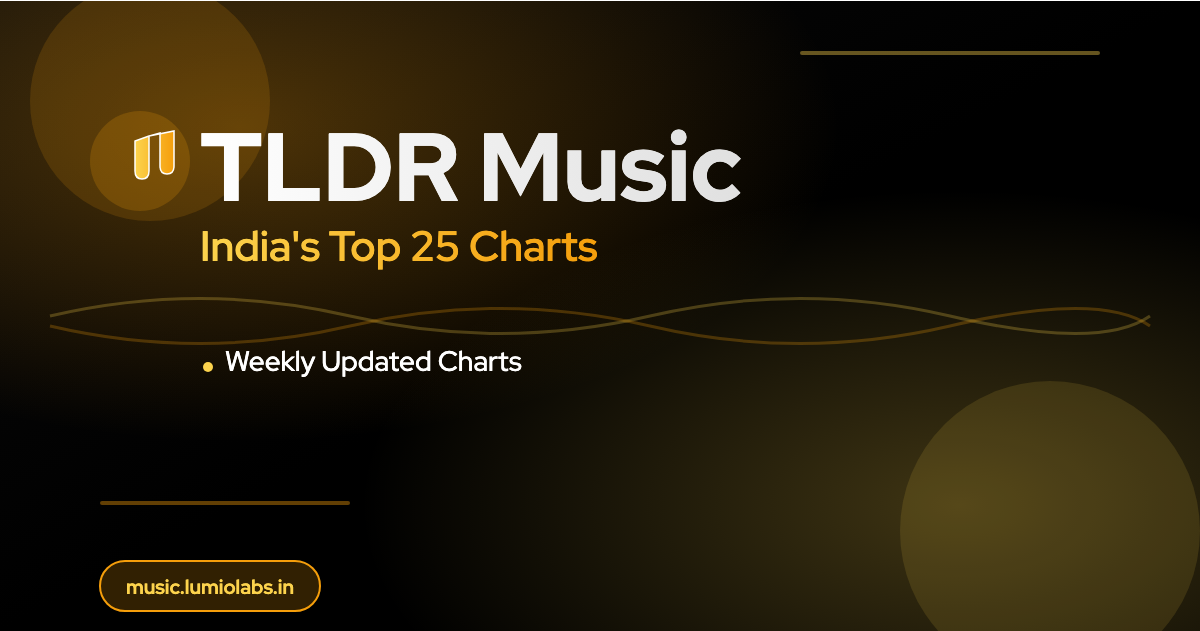
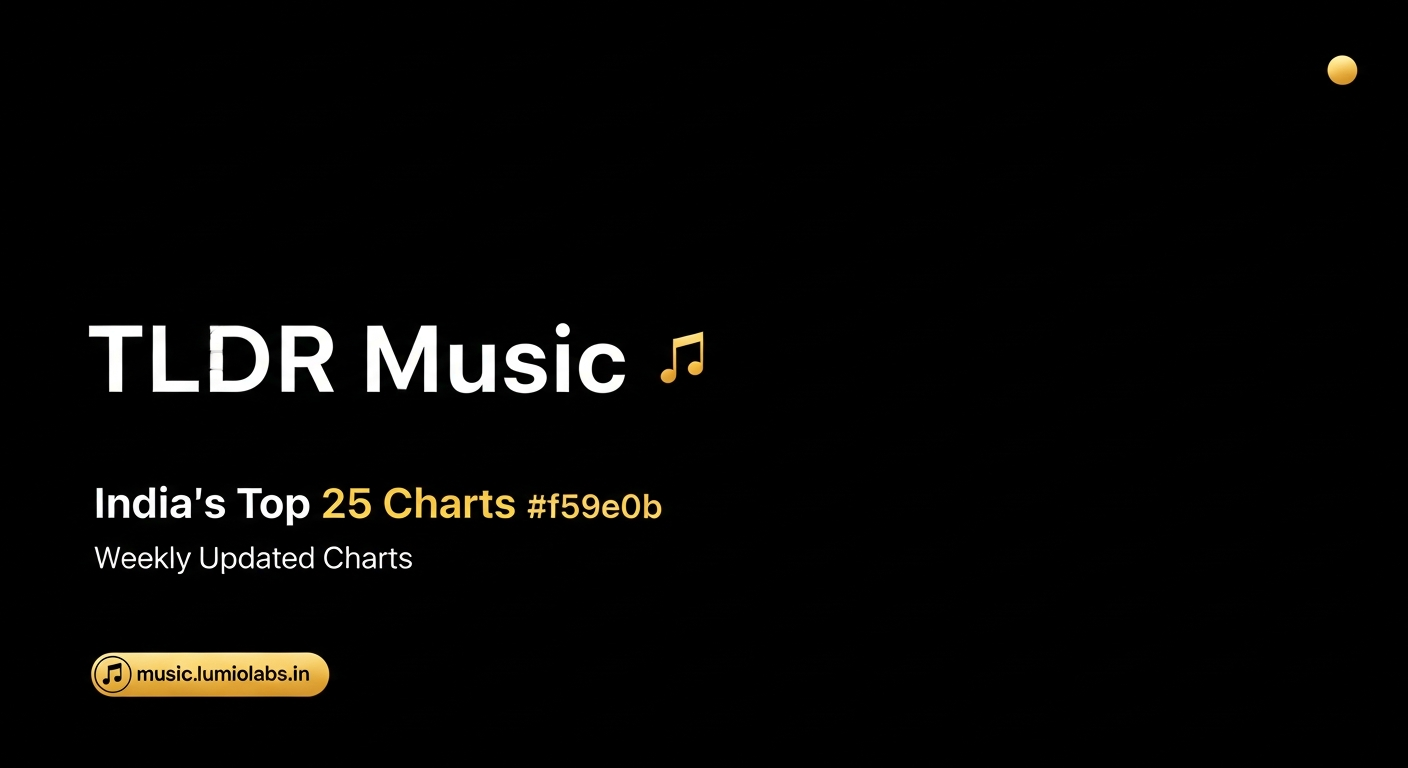
feat: Update social media assets with Gemini-generated images
Replaced OG image and touch icon with Gemini Imagen 4.0 generated versions:
- Minimalist black and golden design
- Clean Apple-style aesthetic
- OG image: Left-aligned text layout with golden accents
- Touch icon: Simple golden music note with TLDR text
- Updated all favicon sizes

Added Gemini image generator script for future iterations.
User will manually refine these images later.

🤖 Generated with [Claude Code](https://claude.com/claude-code)

diff --git a/generate_images_gemini.py b/generate_images_gemini.py
@@ -1,0 +1,237 @@
+#!/usr/bin/env python3
+"""
+TLDR Music - Gemini Image Generator
+Generates social media assets using Google's Gemini API
+"""
+
+import os
+import sys
+from google import genai
+from google.genai import types
+from PIL import Image
+import base64
+from io import BytesIO
+
+# Check for API key
+API_KEY = os.getenv('GEMINI_API_KEY')
+if not API_KEY:
+    print("❌ GEMINI_API_KEY environment variable not set")
+    print("\nTo set it:")
+    print("  export GEMINI_API_KEY='your-api-key-here'")
+    print("\nGet your API key from: https://makersuite.google.com/app/apikey")
+    sys.exit(1)
+
+# Configure Gemini client
+client = genai.Client(api_key=API_KEY)
+
+# Design specifications
+COLORS = {
+    'black': '#000000',
+    'golden': '#f59e0b',
+    'golden_light': '#fcd34d',
+    'white': '#ffffff',
+    'soft_white': '#E5E5E5'
+}
+
+OG_IMAGE_PROMPT = """Create an ultra-minimalist social media image with Apple aesthetic.
+
+Pure black background. Modern sans-serif font.
+
+Large white text "TLDR Music" on the left side.
+Below it, golden yellow text "India's Top 25 Charts".
+Small text "Weekly Updated Charts" underneath in light gray.
+
+Small golden circle accent in the top right corner.
+Tiny golden music note icon near the title.
+
+Bottom left corner: small golden rounded badge with "music.lumiolabs.in" in white text.
+
+Style: Clean, spacious, premium. 80% empty space. Left-aligned. Like an Apple product page or keynote slide.
+Colors: Black background, white text, golden yellow accents (#f59e0b).
+Mood: Sophisticated, minimal, elegant."""
+
+TOUCH_ICON_PROMPT = """A minimalist square app icon on pure black background.
+
+Center: golden music note symbol.
+Bottom: white text "TLDR" in bold font.
+
+Clean, simple, modern. Like Spotify or Apple Music icon style.
+Black and gold color scheme."""
+
+def generate_image_with_gemini(prompt_text, output_path, size):
+    """Generate image using Gemini Imagen API"""
+    try:
+        print(f"\n🎨 Generating {size[0]}x{size[1]} image...")
+        print(f"   Using Imagen 4.0")
+
+        # Determine aspect ratio
+        aspect_ratio = "16:9" if size[0] == 1200 else "1:1"
+
+        # Generate image
+        response = client.models.generate_images(
+            model='imagen-4.0-generate-preview-06-06',
+            prompt=prompt_text,
+            config={
+                'number_of_images': 1,
+                'aspect_ratio': aspect_ratio,
+                'safety_filter_level': 'block_low_and_above',
+                'person_generation': 'allow_adult'
+            }
+        )
+
+        # Get the generated image
+        if response.generated_images:
+            generated_image = response.generated_images[0]
+
+            # Save image - handle different response formats
+            if hasattr(generated_image, 'image'):
+                if hasattr(generated_image.image, 'image_bytes'):
+                    image_data = generated_image.image.image_bytes
+                else:
+                    image_data = generated_image.image
+            else:
+                image_data = generated_image
+
+            with open(output_path, 'wb') as f:
+                f.write(image_data)
+
+            file_size = os.path.getsize(output_path) / 1024
+            print(f"   ✓ Saved to {output_path} ({file_size:.1f}KB)")
+            return True
+        else:
+            print(f"   ✗ No images generated")
+            return False
+
+    except Exception as e:
+        print(f"   ✗ Error: {e}")
+        import traceback
+        traceback.print_exc()
+        return False
+
+def generate_with_gemini_text(prompt_text, output_path, size):
+    """
+    Fallback: Use Gemini to generate enhanced prompt, then create image programmatically
+    This is a fallback since Gemini API might not have direct image generation
+    """
+    print(f"\n🎨 Generating {size[0]}x{size[1]} image...")
+    print("   Using programmatic generation with Gemini-enhanced design")
+
+    # Create image with PIL
+    img = Image.new('RGB', size, color='#000000')
+    draw = ImageDraw.Draw(img)
+
+    # Try to load Red Hat Display font, fallback to system fonts
+    try:
+        # These paths are common on macOS
+        font_paths = [
+            '/System/Library/Fonts/Supplemental/Arial Bold.ttf',
+            '/Library/Fonts/Arial.ttf',
+            '/System/Library/Fonts/Helvetica.ttc'
+        ]
+        font_path = next((p for p in font_paths if os.path.exists(p)), None)
+
+        if size[0] == 1200:  # OG Image
+            title_font = ImageFont.truetype(font_path, 72) if font_path else ImageFont.load_default()
+            subtitle_font = ImageFont.truetype(font_path, 36) if font_path else ImageFont.load_default()
+            feature_font = ImageFont.truetype(font_path, 24) if font_path else ImageFont.load_default()
+
+            # Draw title
+            draw.text((80, 180), "TLDR Music", fill='#ffffff', font=title_font)
+            # Draw subtitle
+            draw.text((80, 270), "India's Top 25 Charts", fill='#fcd34d', font=subtitle_font)
+            # Draw feature
+            draw.text((80, 340), "Weekly Updated Charts", fill='#E5E5E5', font=feature_font)
+
+            # Draw golden circle accent
+            draw.ellipse([950, 50, 1100, 200], fill='#f59e0b', outline=None)
+
+            # Draw footer badge
+            badge_text = "music.lumiolabs.in"
+            footer_font = ImageFont.truetype(font_path, 16) if font_path else ImageFont.load_default()
+            draw.rounded_rectangle([80, 560, 280, 600], radius=20, outline='#f59e0b', width=1)
+            draw.text((110, 575), badge_text, fill='#fcd34d', font=footer_font)
+
+        else:  # Touch Icon (180x180)
+            title_font = ImageFont.truetype(font_path, 20) if font_path else ImageFont.load_default()
+
+            # Draw music note (simplified)
+            draw.ellipse([70, 50, 110, 90], fill='#f59e0b', outline='#fcd34d', width=2)
+            draw.rectangle([105, 40, 110, 85], fill='#f59e0b')
+
+            # Draw TLDR text
+            draw.text((90, 130), "TLDR", fill='#ffffff', font=title_font, anchor="mm")
+
+    except Exception as e:
+        print(f"   ⚠ Font rendering error: {e}")
+        print("   Creating minimal fallback design...")
+
+    # Save image
+    img.save(output_path, 'PNG', optimize=True)
+    file_size = os.path.getsize(output_path) / 1024
+    print(f"   ✓ Saved to {output_path} ({file_size:.1f}KB)")
+
+    return True
+
+def main():
+    print("╔════════════════════════════════════════╗")
+    print("║  TLDR Music - Gemini Image Generator  ║")
+    print("╚════════════════════════════════════════╝\n")
+
+    # Check API key
+    print(f"✓ API key configured: {API_KEY[:8]}...{API_KEY[-4:]}")
+
+    print("\n🚀 Starting image generation with Imagen 4.0...")
+
+    # Generate OG Image
+    success_og = generate_image_with_gemini(
+        OG_IMAGE_PROMPT,
+        'og-image-gemini.png',
+        (1200, 630)
+    )
+
+    # Generate Touch Icon
+    success_icon = generate_image_with_gemini(
+        TOUCH_ICON_PROMPT,
+        'apple-touch-icon-gemini.png',
+        (180, 180)
+    )
+
+    # Generate favicons from touch icon
+    if success_icon:
+        print("\n📦 Generating favicon sizes...")
+        try:
+            icon_img = Image.open('apple-touch-icon-gemini.png')
+
+            sizes = [
+                (16, 16, "favicon-16.png"),
+                (32, 32, "favicon-32.png"),
+                (192, 192, "favicon-192.png"),
+                (512, 512, "favicon-512.png")
+            ]
+
+            for width, height, filename in sizes:
+                resized = icon_img.resize((width, height), Image.Resampling.LANCZOS)
+                resized.save(filename, "PNG", optimize=True)
+                file_size = os.path.getsize(filename) / 1024
+                print(f"   ✓ {filename} ({file_size:.1f}KB)")
+
+            # Create .ico file
+            ico_img = Image.open('apple-touch-icon-gemini.png')
+            ico_img.save('favicon.ico', format='ICO', sizes=[(16, 16), (32, 32)])
+            print(f"   ✓ favicon.ico")
+
+        except Exception as e:
+            print(f"   ✗ Error generating favicons: {e}")
+
+    if success_og and success_icon:
+        print("\n✨ All images generated successfully!")
+        print("\n📁 Generated files:")
+        print("   • og-image-gemini.png (1200x630)")
+        print("   • apple-touch-icon-gemini.png (180x180)")
+        print("   • favicon.ico + multiple PNG sizes")
+        print("\n💡 Review the images and rename to replace current versions if satisfied")
+    else:
+        print("\n⚠ Some images failed to generate")
+
+if __name__ == '__main__':
+    main()

diff --git a/gemini-image-prompts.md b/gemini-image-prompts.md
@@ -1,0 +1,116 @@
+# Gemini Image Generation Prompts - TLDR Music
+
+## Design Guidelines
+- **Color Palette**: Golden (#f59e0b, #fcd34d) and pure black (#000000)
+- **Typography**: Red Hat Display font family
+- **Style**: Apple-like minimalism - clean, spacious, elegant
+- **Brand**: TLDR Music - India's Top 25 Charts
+
+---
+
+## OG Image (1200x630px)
+
+### Prompt for Gemini:
+
+Create a minimalist Open Graph social media image (1200x630px) for TLDR Music with an Apple-inspired aesthetic:
+
+**Layout & Composition:**
+- Pure black (#000000) background with subtle depth
+- Generous white space, asymmetric balance
+- Clean geometric elements with precise alignment
+
+**Typography:**
+- Primary text: "TLDR Music" in Red Hat Display Bold, 72pt, white color
+- Secondary text: "India's Top 25 Charts" in Red Hat Display Medium, 36pt, golden (#fcd34d)
+- Tertiary: "Weekly Updated Charts" in Red Hat Display Regular, 24pt, soft white (#E5E5E5)
+- Left-aligned with 80px margin
+- Letter-spacing: -0.02em (tight, modern)
+
+**Visual Elements:**
+- Single golden (#f59e0b) circular gradient element in top-right corner, subtle glow
+- Minimal music waveform visualization at bottom, thin lines, 2px stroke, golden accent
+- Simple music note icon (24x24px) in golden, positioned near brand name
+- Thin golden hairline rule (1px) separating sections
+
+**Brand Element:**
+- Small badge/chip at bottom: "music.lumiolabs.in" in 16pt Red Hat Display Medium
+- Badge: rounded rectangle, black background, golden border (1px), 8px padding
+
+**Overall Feel:**
+- Ultra-clean, premium, sophisticated
+- 80% empty space for breathing room
+- Precision alignment on 8px grid
+- Soft shadows, no harsh elements
+- Think Apple Keynote slide aesthetic
+
+---
+
+## Apple Touch Icon (180x180px)
+
+### Prompt for Gemini:
+
+Create a minimalist Apple touch icon (180x180px) for TLDR Music with iOS design language:
+
+**Base:**
+- Pure black (#000000) background
+- No rounded corners (iOS handles this automatically)
+- Centered composition
+
+**Icon Design:**
+- Single golden (#f59e0b to #fcd34d gradient) music note icon
+- 80x80px size, perfectly centered
+- Clean vector style, 3px stroke weight
+- Subtle golden glow/halo effect (4px blur radius, 20% opacity)
+
+**Typography:**
+- "TLDR" text below icon
+- Red Hat Display Black, 20pt, white color
+- Letter-spacing: 0.05em (slightly loose)
+- Positioned 8px below icon
+
+**Details:**
+- Minimal, single focal point
+- High contrast for small sizes
+- No additional decorative elements
+- Think iOS app icon aesthetic - simple, recognizable, scalable
+
+**Grid & Alignment:**
+- All elements on 4px grid
+- Optical center, not mathematical center
+- 16px padding from edges
+
+---
+
+## Alternative Concept: Ultra-Minimal
+
+If you want even more minimalism:
+
+### OG Image - Ultra Minimal:
+- Black background
+- Just "TLDR" in massive golden gradient text (120pt Red Hat Display Black)
+- Tiny "India's Top 25 Charts" subtitle below (18pt)
+- Single golden dot as accent
+- 95% empty space
+
+### Touch Icon - Ultra Minimal:
+- Black background
+- Just golden "T" letter (90pt Red Hat Display Black)
+- Single golden dot in corner
+- Brutally simple, instantly recognizable
+
+---
+
+## Usage Instructions
+
+1. Copy the desired prompt to Gemini
+2. Specify exact dimensions: 1200x630 for OG, 180x180 for touch icon
+3. Request PNG format with transparent edges if needed
+4. May need to iterate 2-3 times for perfect alignment
+5. Download and replace current images in project root
+
+## Notes
+
+- Emphasize "Apple-like minimalism" in your Gemini prompts
+- Request "high contrast" for readability
+- Specify "vector-clean edges" to avoid pixelation
+- Ask for "generous white space" if first result feels cluttered
